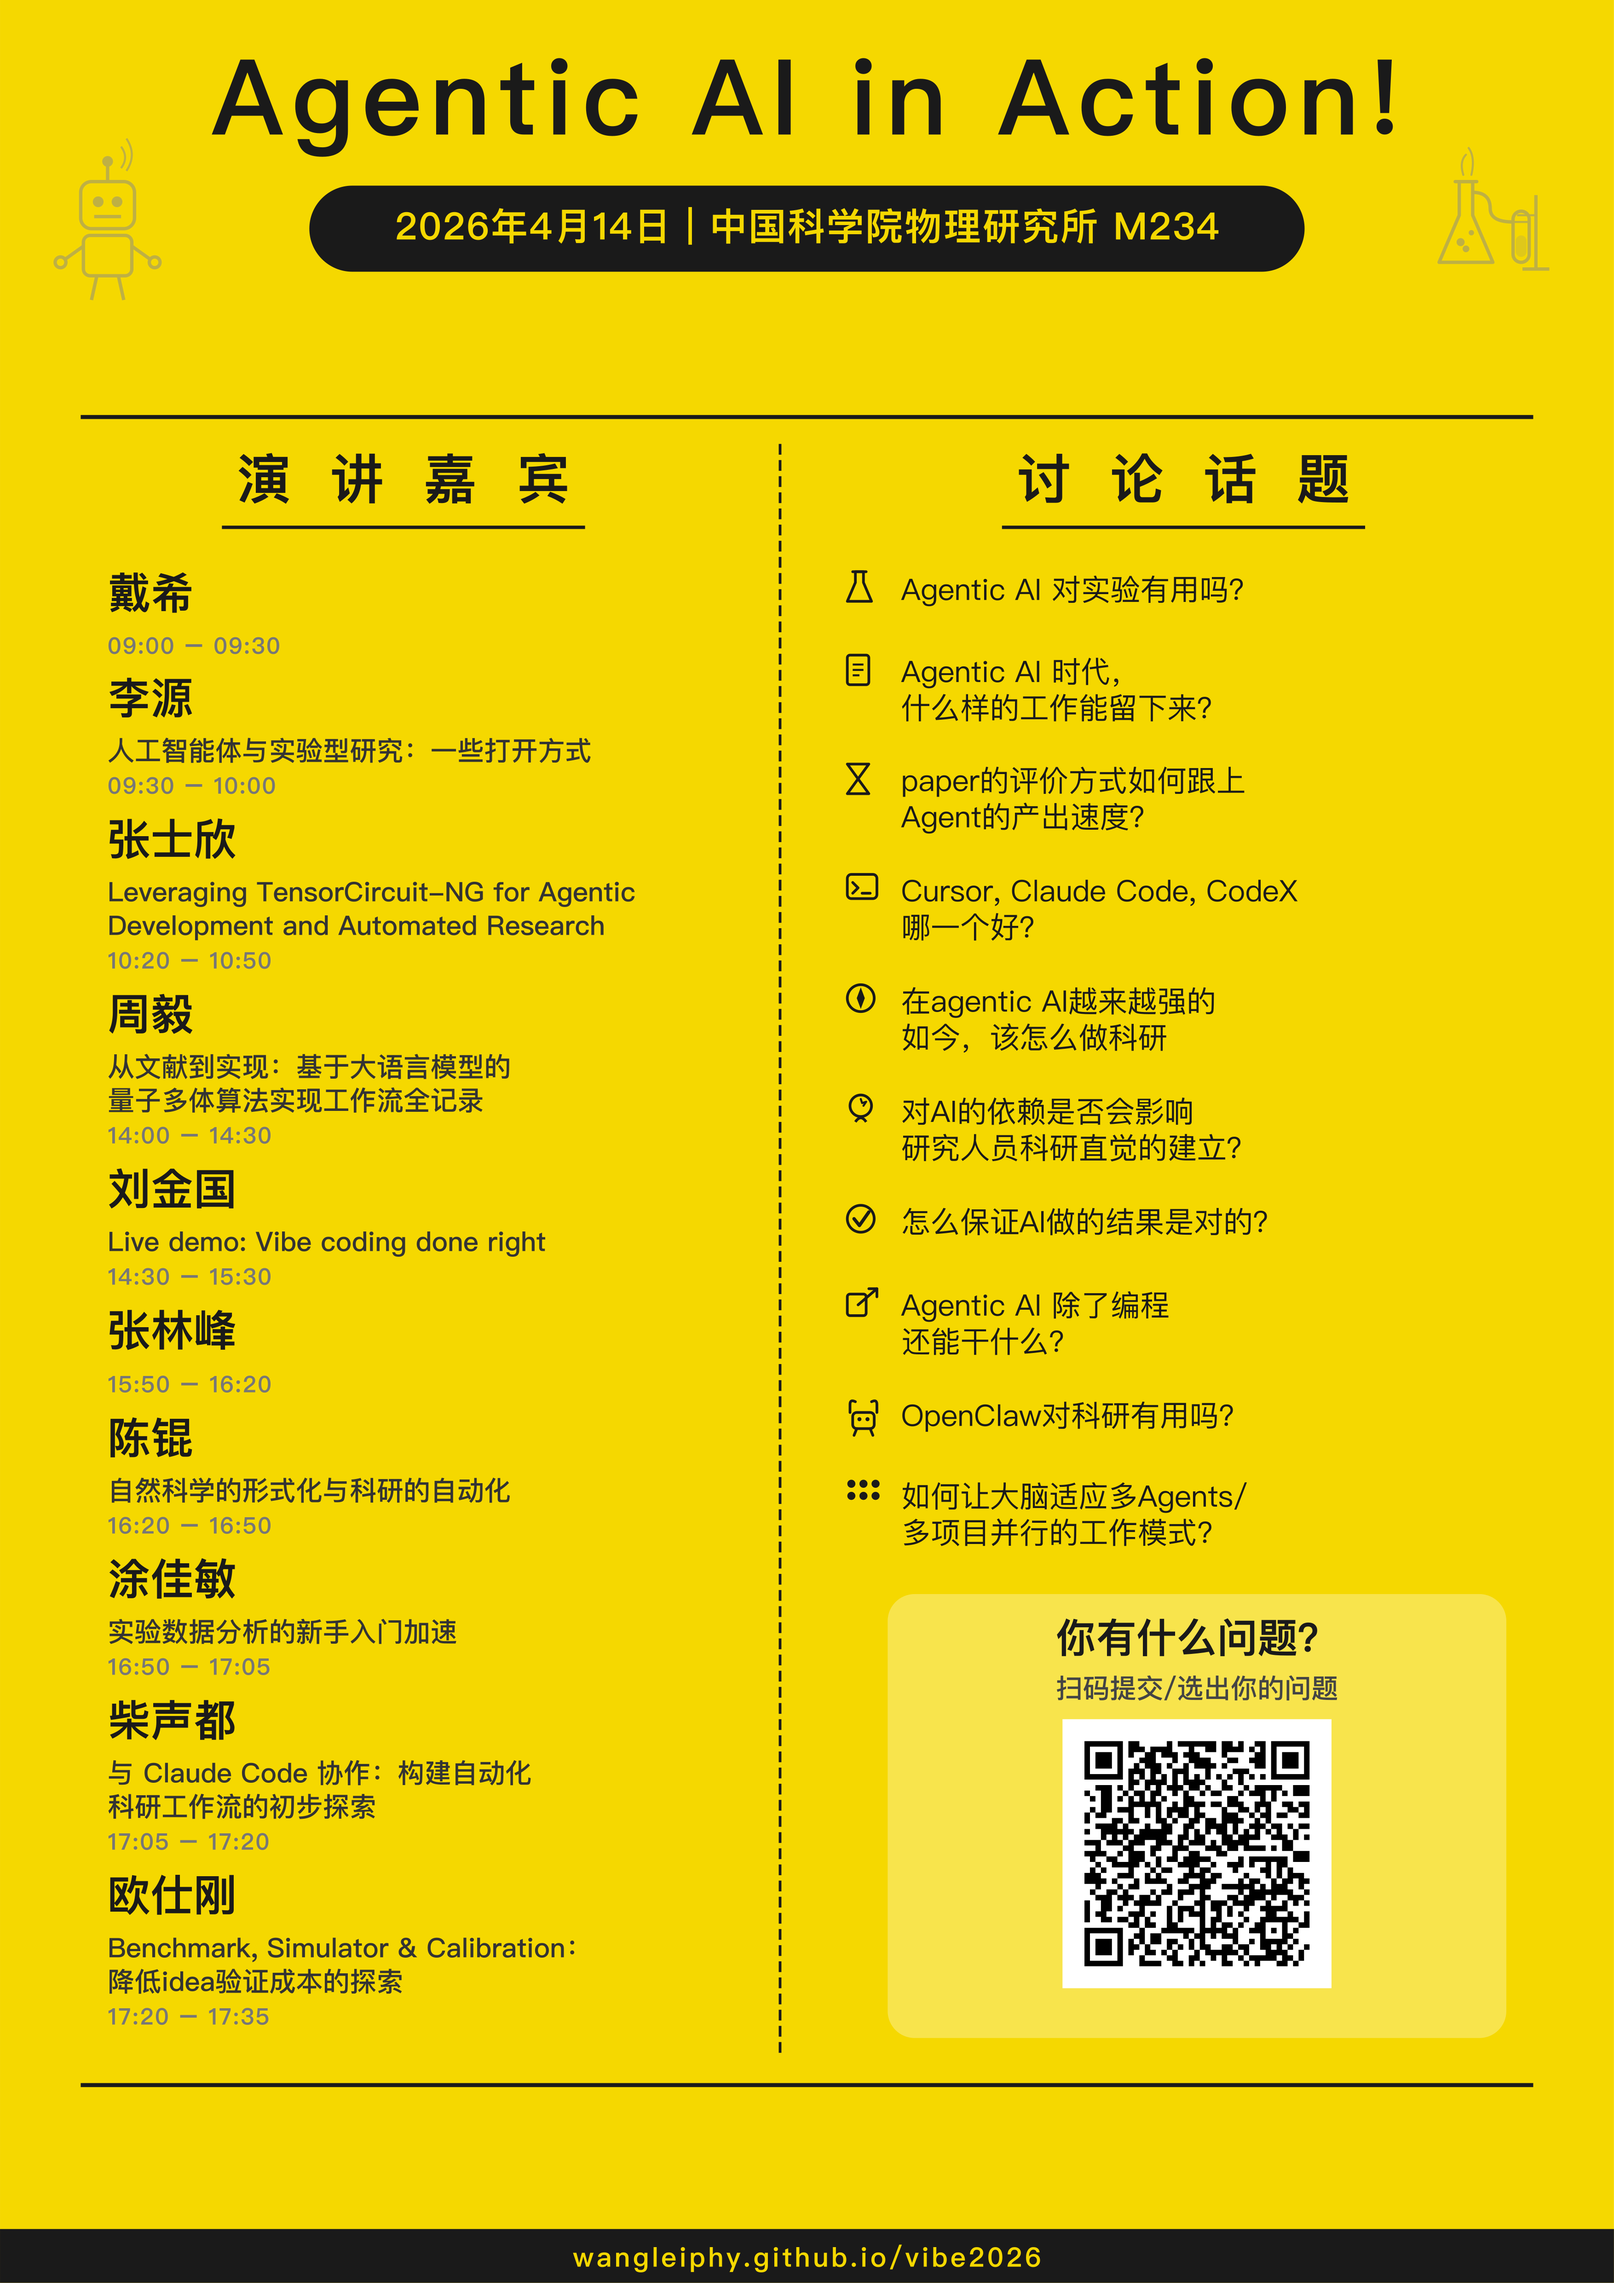
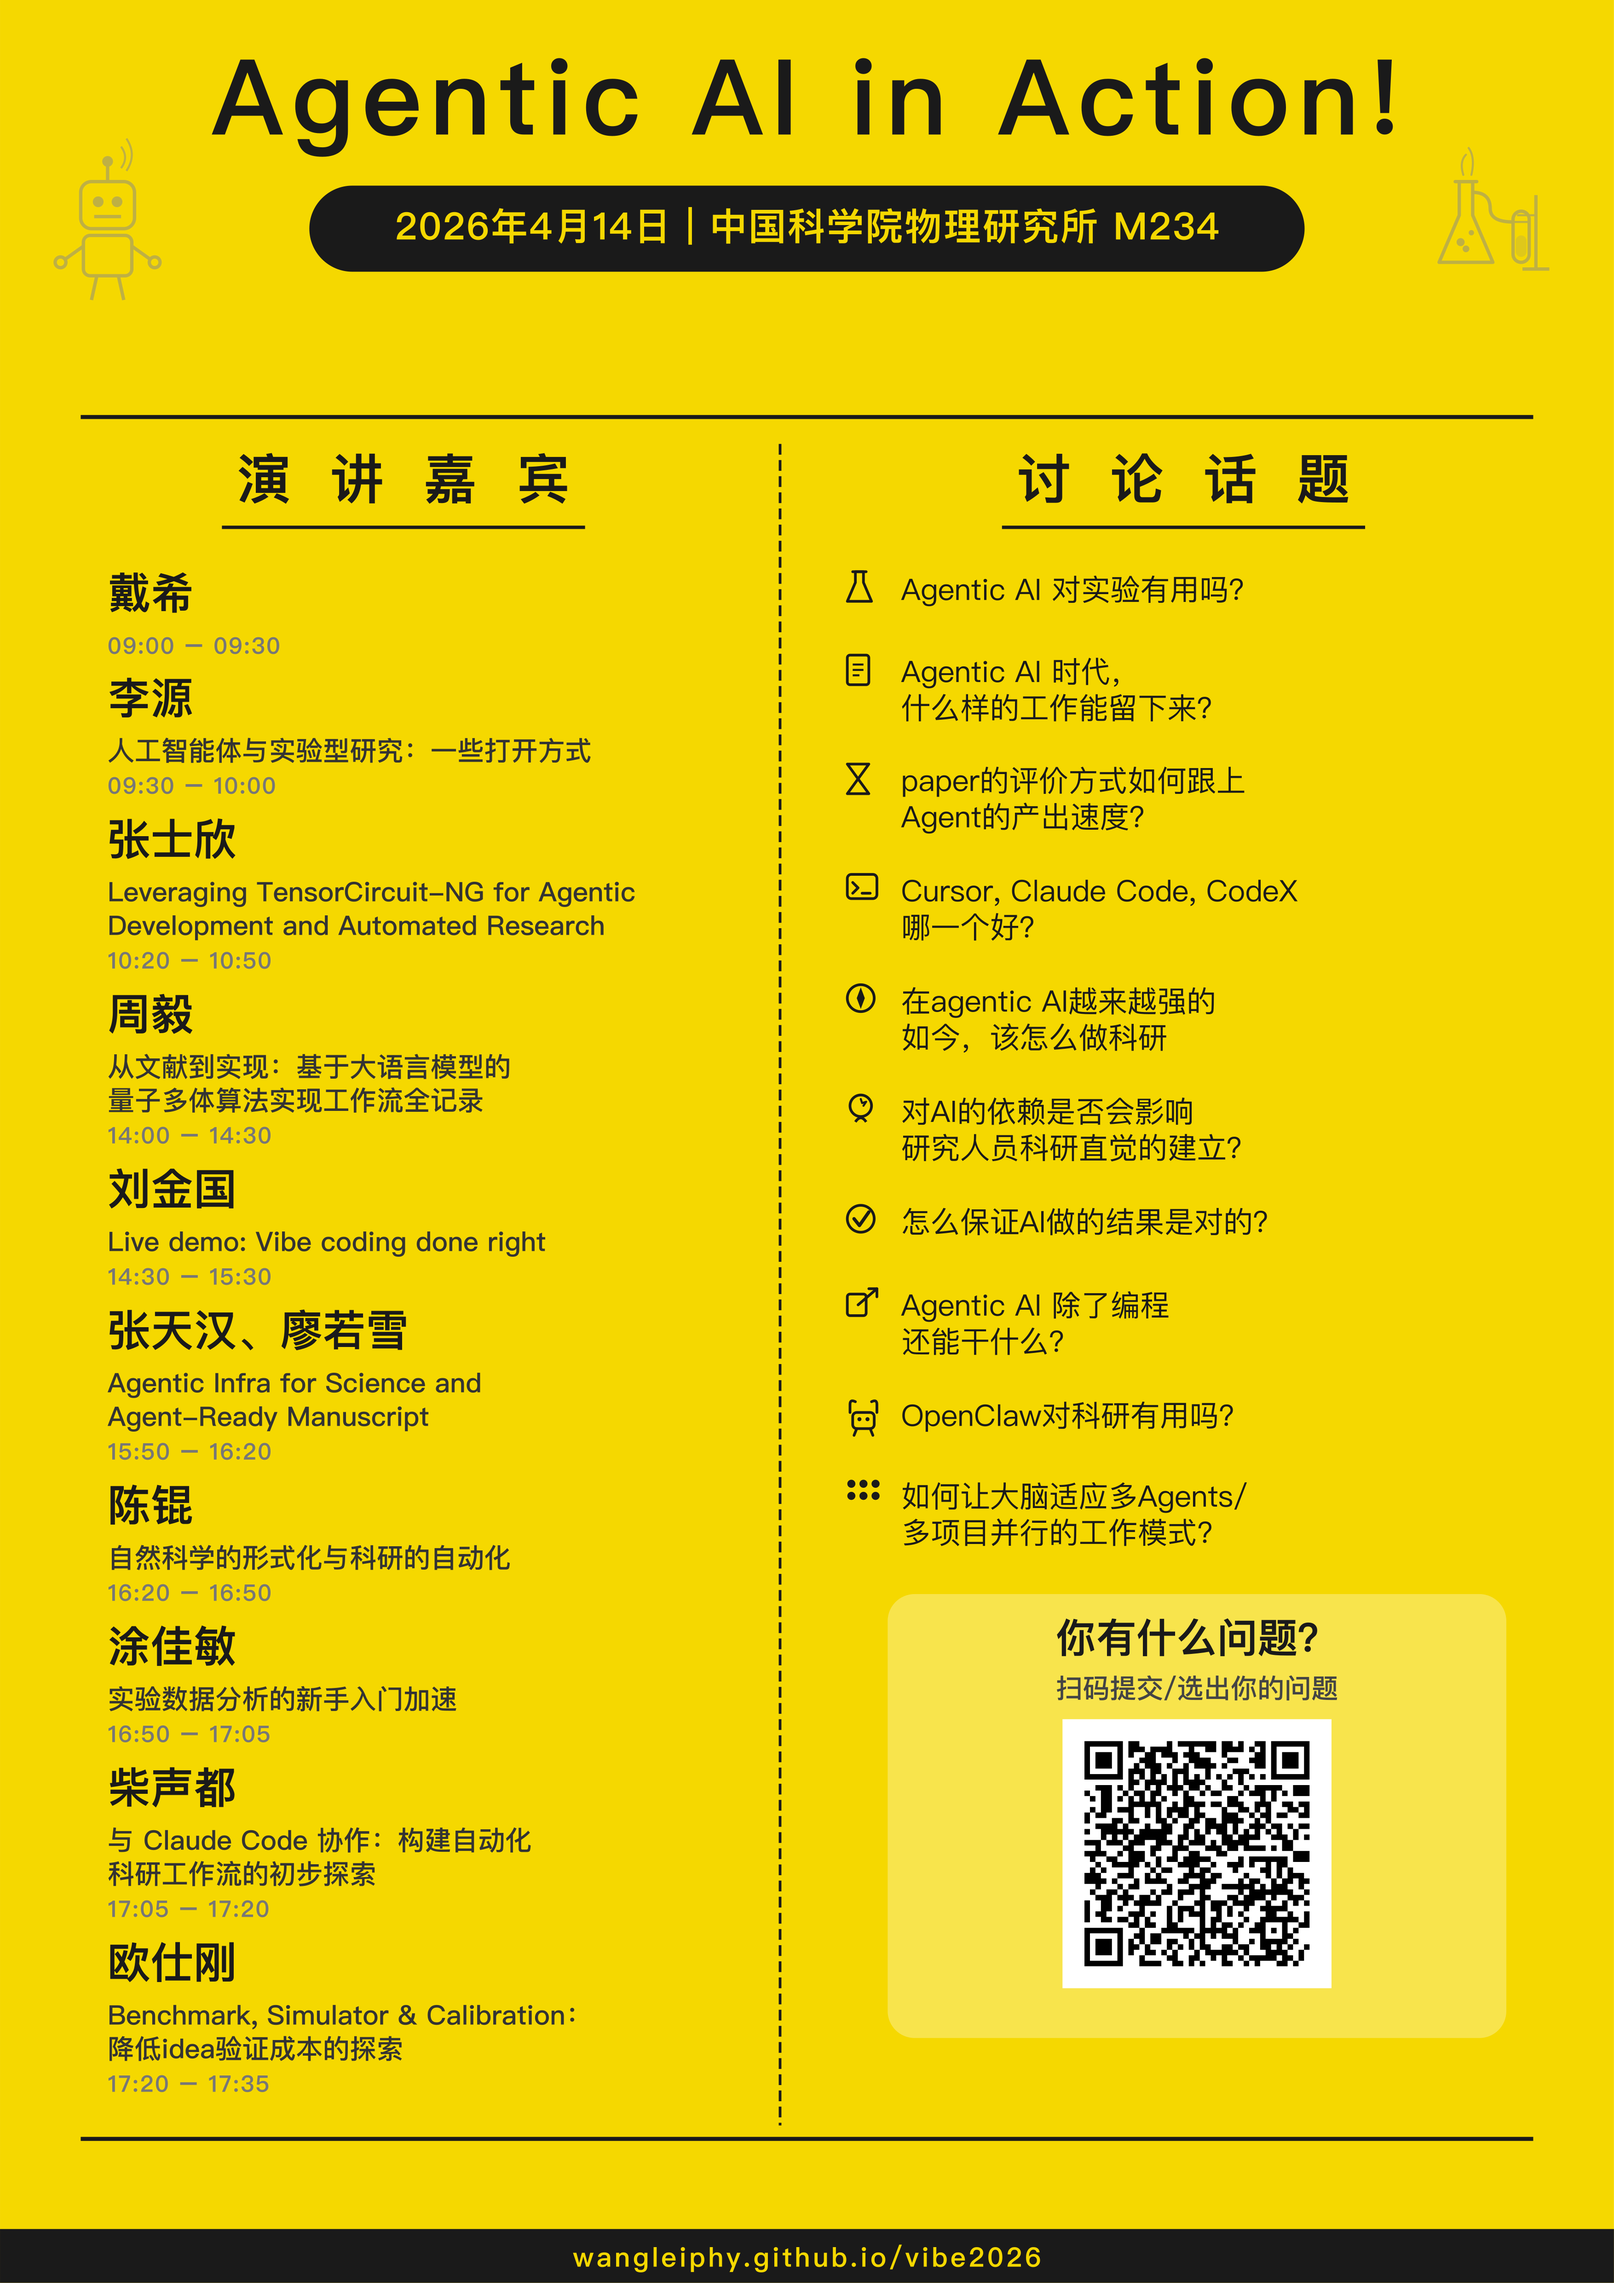
update speaker 张天汉、廖若雪 in poster and program

Changed region(s): [[0.0621, 0.5624, 0.9322, 0.9373]]

diff --git a/vibe2026/program.html b/vibe2026/program.html
@@ -26,7 +26,7 @@
         <tr><td>14:00-14:30</td><td>从文献到实现：基于大语言模型的量子多体算法实现工作流全记录</td><td>周毅</td></tr>
         <tr><td>14:30-15:30</td><td>Live demo: Vibe coding done right</td><td>刘金国</td></tr>
         <tr class="break"><td></td><td>☕ Coffee Break</td><td></td></tr>
-        <tr><td>15:50-16:20</td><td>...</td><td>张林峰</td></tr>
+        <tr><td>15:50-16:20</td><td>Agentic Infra for Science and Agent-Ready Manuscript</td><td>张天汉、廖若雪</td></tr>
         <tr><td>16:20-16:50</td><td>自然科学的形式化与科研的自动化</td><td>陈锟</td></tr>
         <tr><td>16:50-17:05</td><td>实验数据分析的新手入门加速</td><td>涂佳敏</td></tr>
         <tr><td>17:05-17:20</td><td>与 Claude Code 协作：构建自动化科研工作流的初步探索</td><td>柴声都</td></tr>
